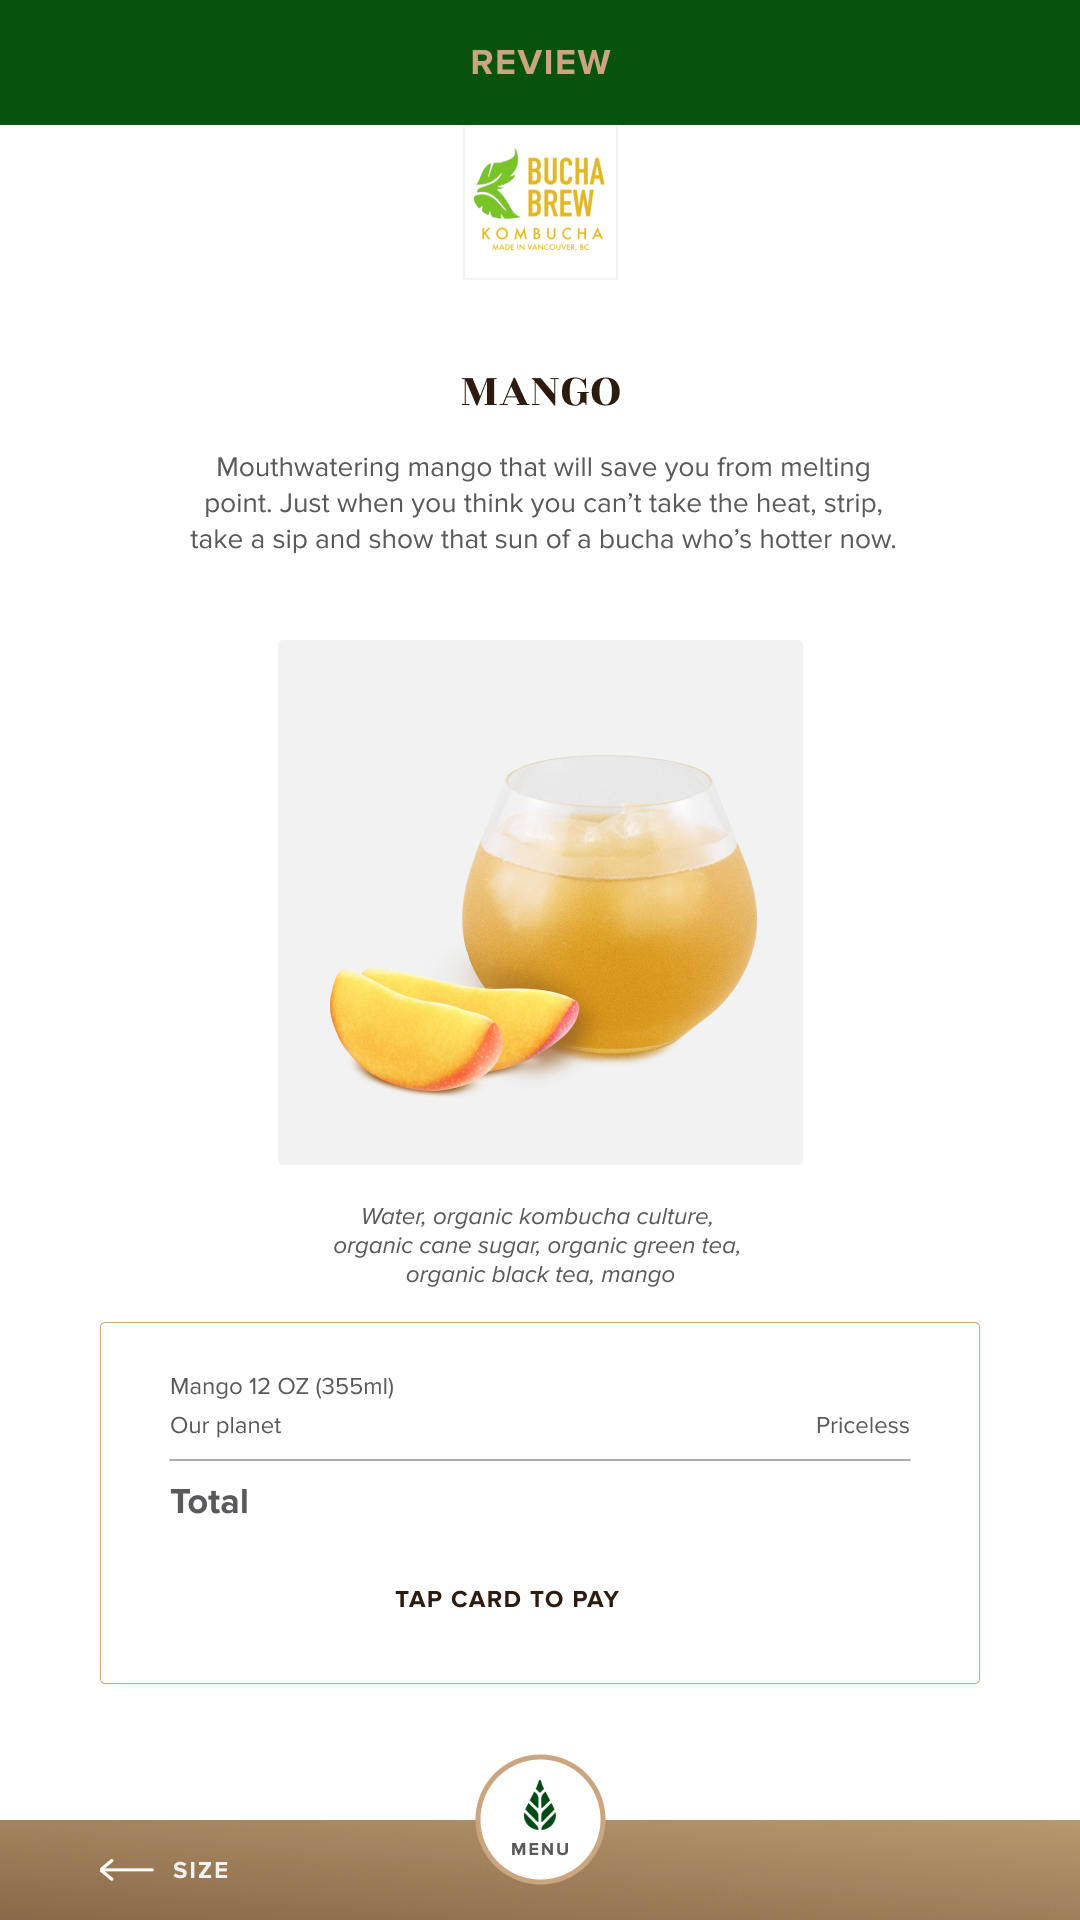
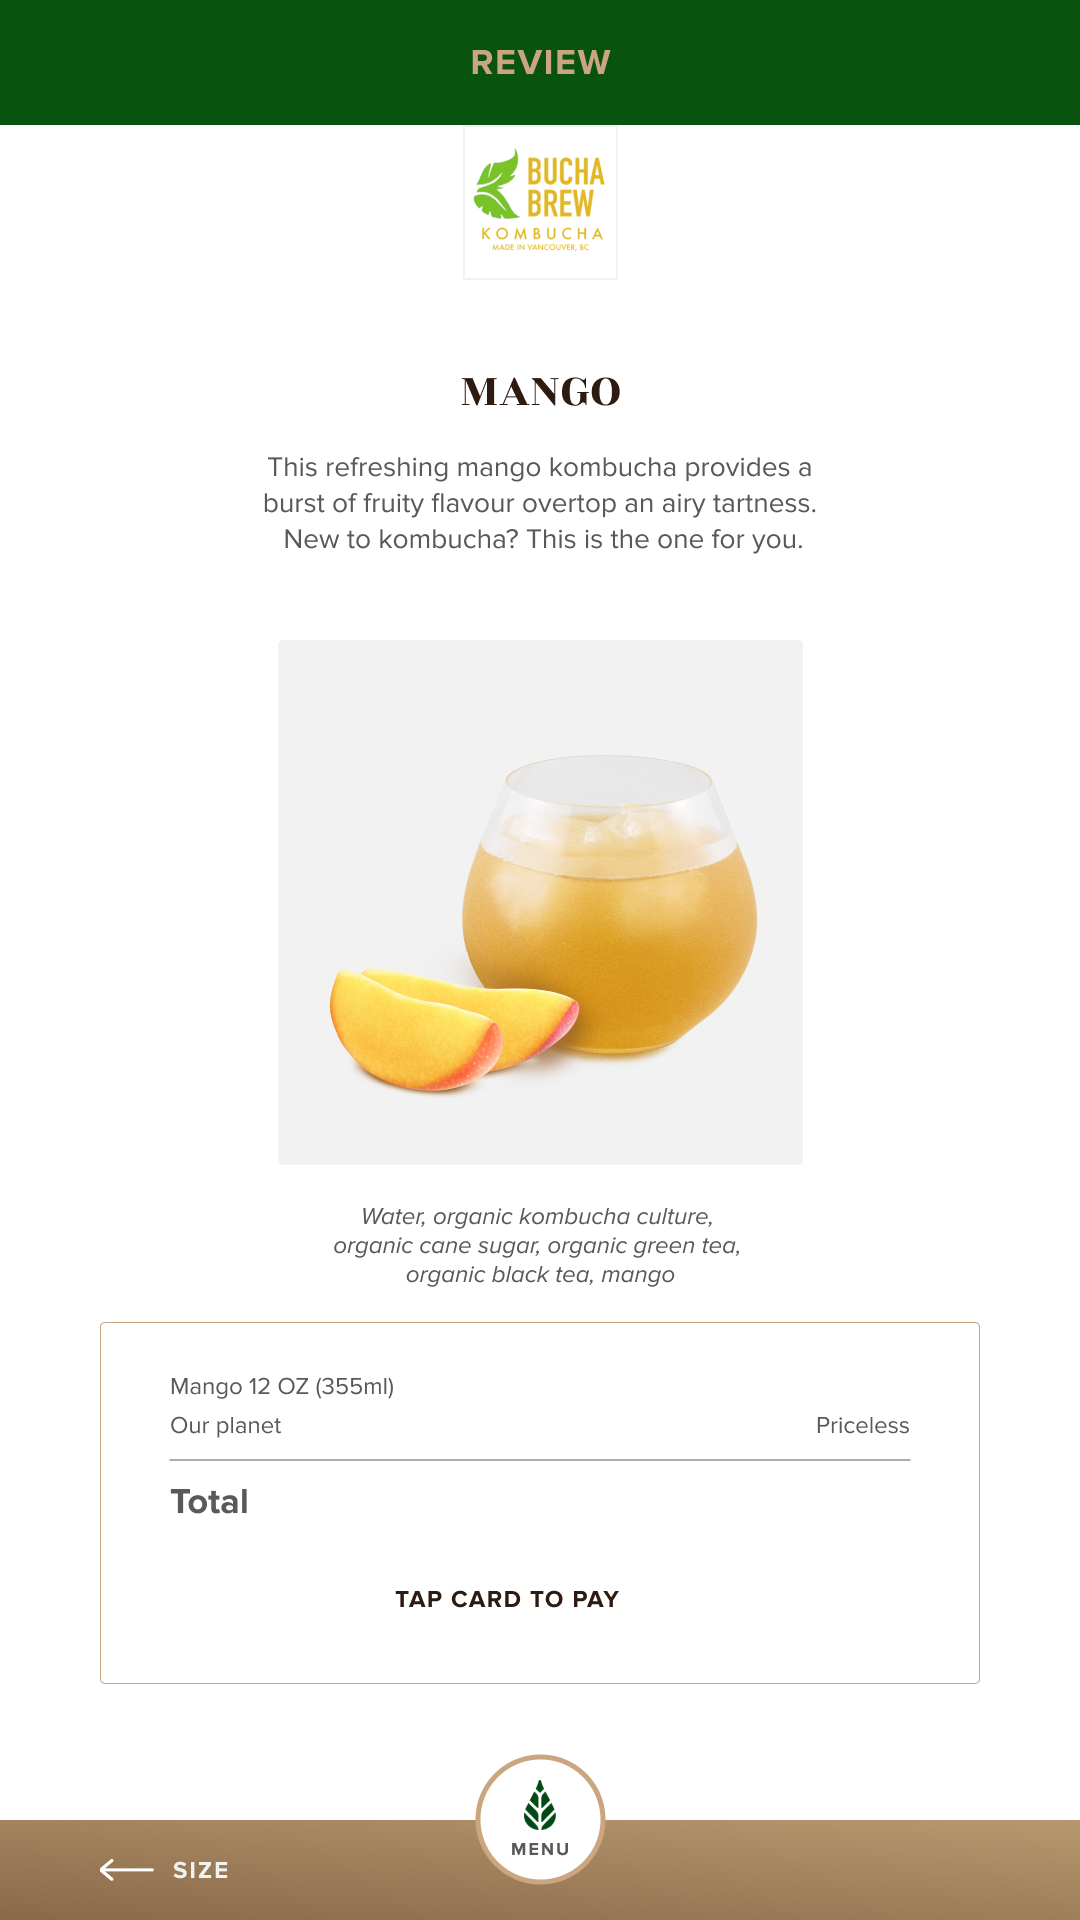
Change Gfruit pricing and update the Mango copy

Changed region(s): [[0.1833, 0.2188, 0.825, 0.2812]]

diff --git a/ui/payselect.cpp b/ui/payselect.cpp
@@ -97,6 +97,15 @@ void paySelect::on_payPage_Button_clicked()
     // TODO: Grab from DB description
     string description = "Drink Flavor DrinkSizeOZ (DrinkML)";
 
+    // FIXME: Remove this when DB price referencing/calculations are correct.
+    if(idlePage->userDrinkOrder->getOption() == 9) {
+        if(idlePage->userDrinkOrder->getSize() == idlePage->userDrinkOrder->SMALL_SIZE_ML) {
+            idlePage->userDrinkOrder->setPrice(0.99);
+        } else {
+            idlePage->userDrinkOrder->setPrice(1.25);
+        }
+    }
+
     double drinkAmountDbl = idlePage->userDrinkOrder->getPrice();
     QString qs = QString::number(drinkAmountDbl, 'f', 2);
 
@@ -118,6 +127,15 @@ void paySelect::on_payPage_Button_clicked()
 
     } else {
         drinkSize = 'l';
+    }
+
+    // FIXME: Remove this when DB price referencing/calculations are correct.
+    if(idlePage->userDrinkOrder->getOption() == 9) {
+        if(drinkSize =='s') {
+            idlePage->userDrinkOrder->setPrice(0.99);
+        } else if (drinkSize == 'l') {
+            idlePage->userDrinkOrder->setPrice(1.25);
+        }
     }
 
     paymentPage->resizeEvent(paySelectResize, drinkSize);
